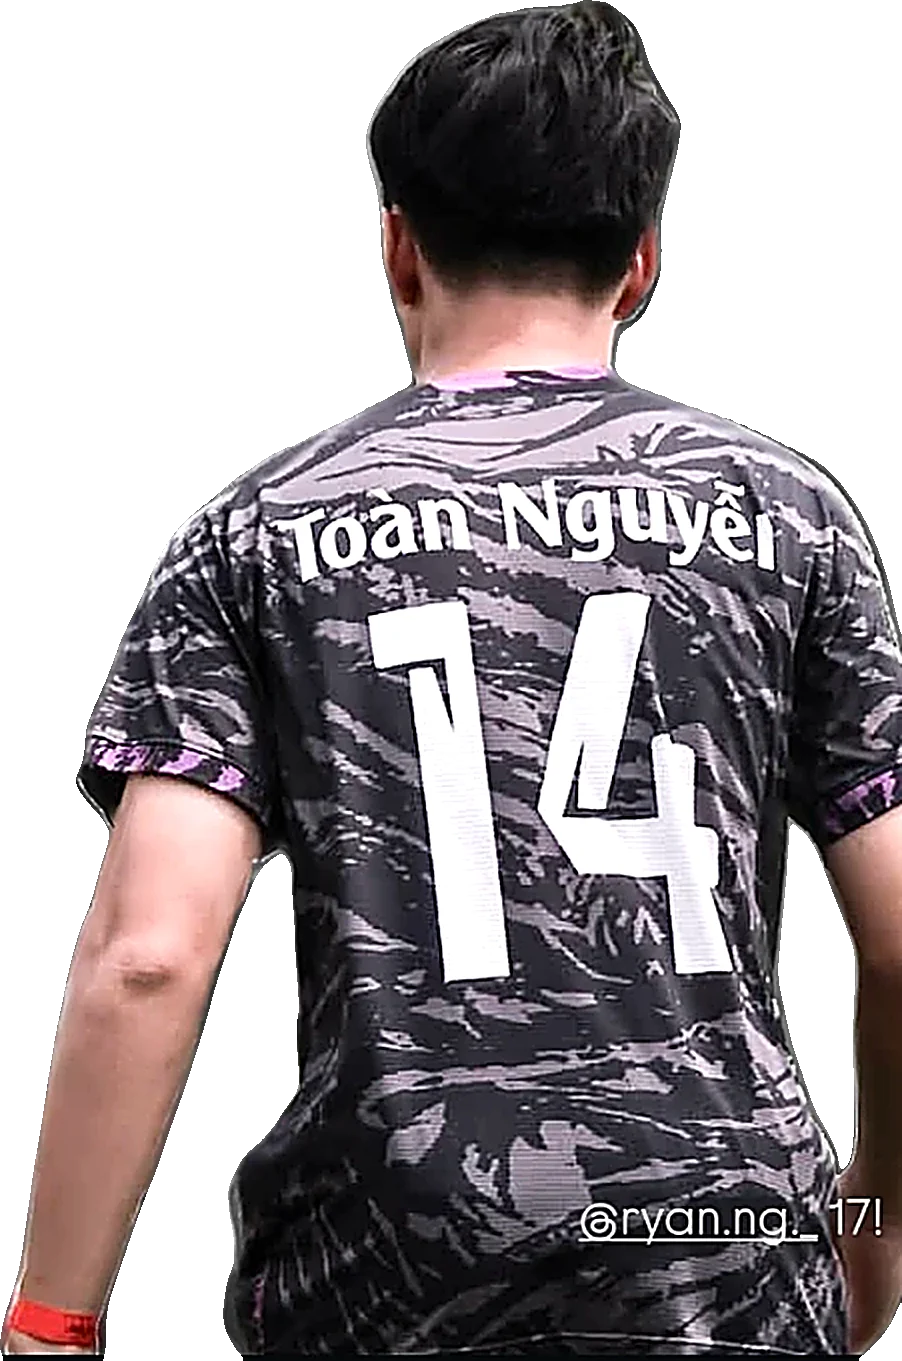
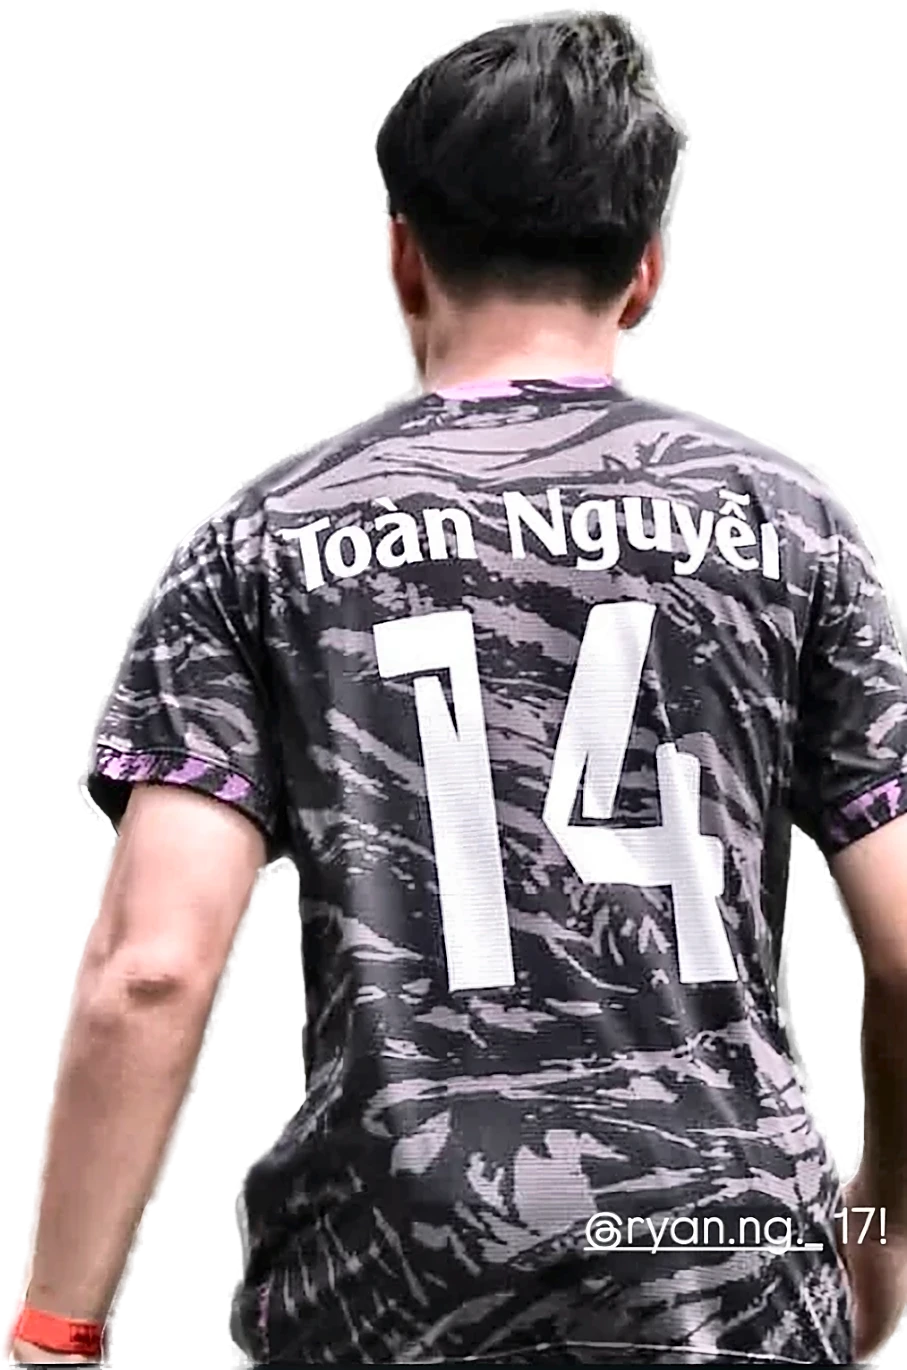
Sharper hero cut-out; add Sports Week Grade 11 action photo
Claude-Session: https://claude.ai/code/session_01KBYV4hYQCWrYcvXQGG3nhx

Changed region(s): [[0.0, 0.0, 1.0, 1.0], [0.3415, 0.9875, 0.3725, 1.0]]

diff --git a/index.html b/index.html
@@ -93,7 +93,7 @@ h1, h2, h3, p { margin: 0; }
 .hero-streak { position: absolute; inset: 0; z-index: 2; width: 100%; height: 100%; pointer-events: none; filter: drop-shadow(0 0 14px var(--streak)); }
 .hero-streak polygon { fill: var(--streak); }
 /* The player figure carries its own frame (back) and brushed number (middle), sized in container units */
-.hero-player { position: absolute; z-index: 4; right: clamp(60px, 7vw, 140px); bottom: 0; height: 88%; aspect-ratio: 902 / 1361; margin: 0; pointer-events: none; isolation: isolate; container-type: size; }
+.hero-player { position: absolute; z-index: 4; right: clamp(60px, 7vw, 140px); bottom: 0; height: 88%; aspect-ratio: 907 / 1370; margin: 0; pointer-events: none; isolation: isolate; container-type: size; }
 .hero-player img { position: relative; z-index: 2; width: 100%; height: 100%; filter: drop-shadow(-2px -2px 0 rgba(var(--rim-rgb), .5)) drop-shadow(0 30px 50px rgba(0, 0, 0, .6)); }
 .hero-frame { position: absolute; z-index: 0; left: -16%; right: -6%; top: 36%; bottom: 0; background: var(--pattern), var(--frame-bg); box-shadow: 0 30px 80px rgba(0, 0, 0, .45), inset 0 0 0 1px rgba(255, 255, 255, .08); }
 .hero-frame::after { content: "07"; position: absolute; right: 4%; bottom: 2%; font: italic 900 22cqh/1 var(--f-display); color: rgba(255, 255, 255, .06); }
@@ -174,7 +174,7 @@ h1, h2, h3, p { margin: 0; }
 
 /* Full-bleed photo band */
 .band { position: relative; height: clamp(420px, 78vh, 760px); overflow: hidden; display: grid; align-items: end; }
-.band img { position: absolute; inset: -12% 0; width: 100%; height: 124%; object-fit: cover; object-position: 50% 45%; }
+.band img { position: absolute; inset: -12% 0; width: 100%; height: 124%; object-fit: cover; object-position: 62% 40%; }
 .band::after { content: ""; position: absolute; inset: 0; background: linear-gradient(180deg, var(--black) 0%, rgba(var(--black-rgb), .15) 28%, rgba(var(--black-rgb), .2) 55%, var(--black) 100%), linear-gradient(90deg, rgba(var(--black-rgb), .75), transparent 60%); }
 .band .wrap { position: relative; z-index: 1; padding-bottom: clamp(40px, 6vw, 80px); }
 .band h2 { font: italic 900 clamp(44px, 7.4vw, 116px)/.95 var(--f-display); text-transform: uppercase; max-width: 11ch; }
@@ -277,7 +277,7 @@ h1, h2, h3, p { margin: 0; }
 .roster-list .me { font-size: 1.32em; margin-bottom: .18em; }
 .roster-list .me b { color: var(--accent-hi); }
 .roster-list small { display: block; font: 700 .42em/1 var(--f-body); letter-spacing: .16em; text-transform: uppercase; color: var(--ice); text-shadow: 0 0 10px rgba(var(--accent-hi-rgb), .8); margin-top: .5em; }
-.roster-player { position: relative; justify-self: center; height: min(66vh, 600px); aspect-ratio: 902 / 1361; margin: 0; }
+.roster-player { position: relative; justify-self: center; height: min(66vh, 600px); aspect-ratio: 907 / 1370; margin: 0; }
 .roster-player img { width: 100%; height: 100%; filter: drop-shadow(0 0 2px rgba(255, 255, 255, .7)) drop-shadow(0 0 26px rgba(var(--accent-hi-rgb), .7));
   -webkit-mask-image: linear-gradient(180deg, #000 78%, transparent); mask-image: linear-gradient(180deg, #000 78%, transparent); }
 .roster-player::after { content: ""; position: absolute; left: 6%; right: 6%; bottom: 4%; height: 7%; border-radius: 50%; background: radial-gradient(closest-side, rgba(0, 0, 0, .7), transparent); z-index: -1; }
@@ -380,7 +380,7 @@ dialog.lb p { font: 700 13px/1.4 var(--f-body); letter-spacing: .08em; text-tran
     <polygon points="100,2 47,74 55,70"/>
     <polygon points="100,16 58,80 62,77" opacity=".7"/>
   </svg>
-  <figure class="hero-player"><div class="hero-frame" aria-hidden="true"></div><p class="hero-num" aria-hidden="true"><span>7</span></p><img src="img/hero-player.webp" alt="Nguyen Duc Toan seen from behind in his school-team shirt, No. 14" width="902" height="1361" fetchpriority="high"></figure>
+  <figure class="hero-player"><div class="hero-frame" aria-hidden="true"></div><p class="hero-num" aria-hidden="true"><span>7</span></p><img src="img/hero-player.webp" alt="Nguyen Duc Toan seen from behind in his school-team shirt, No. 14" width="907" height="1370" fetchpriority="high"></figure>
   <div class="hero-vcp" aria-hidden="true"><b>VCP</b><span>Football</span></div>
   <div class="hero-fade" aria-hidden="true"></div>
   <div class="hero-inner wrap">
@@ -416,8 +416,8 @@ dialog.lb p { font: 700 13px/1.4 var(--f-body); letter-spacing: .08em; text-tran
 </section>
 
 <section class="band" aria-label="On the pitch">
-  <img src="img/g10-dribbling.webp" alt="Toan, No. 7, on the pitch with teammates during the 2024–25 Vinschool Central Park Football Championship" loading="lazy">
-  <div class="wrap"><h2 data-rise>Seven titles. <span>Earned on the pitch.</span></h2><p data-rise>VCP Football Championship, 2024–2025</p></div>
+  <img src="img/g11-sw-action.webp" alt="Toan, No. 7, on the ball at Sports Week in Grade 11" loading="lazy">
+  <div class="wrap"><h2 data-rise>Seven titles. <span>Earned on the pitch.</span></h2><p data-rise>Sports Week, Grade 11 · 2025–2026 · Photo: VCP.FUTBALL</p></div>
 </section>
 
 <section class="sec" id="seasons">
@@ -550,19 +550,20 @@ const TROPHIES = [
 ];
 /* Action photos. span = columns of 12, rows = grid rows; tall = portrait */
 const GALLERY = [
-  { src: "img/g10-attacking.webp", cap: "No. 7 on the attack · VCP Championship 2024–25", span: 8, rows: 4 },
+  { src: "img/g11-sw-action.webp", cap: "No. 7 on the ball · Sports Week, Grade 11 (2025–26) · Photo: VCP.FUTBALL", span: 8, rows: 4 },
   { src: "img/g11-no7-cup.webp", cap: "With the champion's cup · VCP Championship 2025–26", span: 4, rows: 4, tall: true },
+  { src: "img/g10-attacking.webp", cap: "No. 7 on the attack · VCP Championship 2024–25", span: 6, rows: 3 },
+  { src: "img/g10-goal.webp", cap: "Goal celebration · 2024–25", span: 6, rows: 3 },
   { src: "img/g10-duel.webp", cap: "One-on-one duel · 2024–25", span: 4, rows: 2 },
   { src: "img/g10-dribbling-3.webp", cap: "Dribbling past defenders · 2024–25", span: 4, rows: 2 },
-  { src: "img/g10-goal.webp", cap: "Goal celebration · 2024–25", span: 4, rows: 2 },
+  { src: "img/g10-defending.webp", cap: "Tracking back to defend · 2024–25", span: 4, rows: 2 },
   { src: "img/g10-huddle.webp", cap: "Team huddle before kick-off · 2024–25", span: 3, rows: 4, tall: true },
   { src: "img/sf-celebrate.webp", cap: "Celebrating the win · SportsFest 2025", span: 5, rows: 4 },
-  { src: "img/g10-defending.webp", cap: "Tracking back to defend · 2024–25", span: 4, rows: 4 },
-  { src: "img/g11-huddle.webp", cap: "Team huddle on the pitch · 2025–26", span: 6, rows: 3 },
+  { src: "img/g11-huddle.webp", cap: "Team huddle on the pitch · 2025–26", span: 4, rows: 4 },
   { src: "img/sf-board.webp", cap: "First Prize, Series B · SportsFest 2025", span: 6, rows: 3 },
-  { src: "img/v10-final-1.webp", cap: "On the pitch in the Vin10 Cup final · March 2024", span: 5, rows: 3 },
-  { src: "img/v10-talk.webp", cap: "Talking tactics before the Vin10 final", span: 4, rows: 3 },
-  { src: "img/v10-huddle.webp", cap: "Team huddle during the Vin10 Cup", span: 3, rows: 3 }
+  { src: "img/v10-final-1.webp", cap: "On the pitch in the Vin10 Cup final · March 2024", span: 6, rows: 3 },
+  { src: "img/v10-talk.webp", cap: "Talking tactics before the Vin10 final", span: 6, rows: 3 },
+  { src: "img/v10-huddle.webp", cap: "Team huddle during the Vin10 Cup", span: 6, rows: 3 }
 ];
 
 const $ = s => document.querySelector(s);
